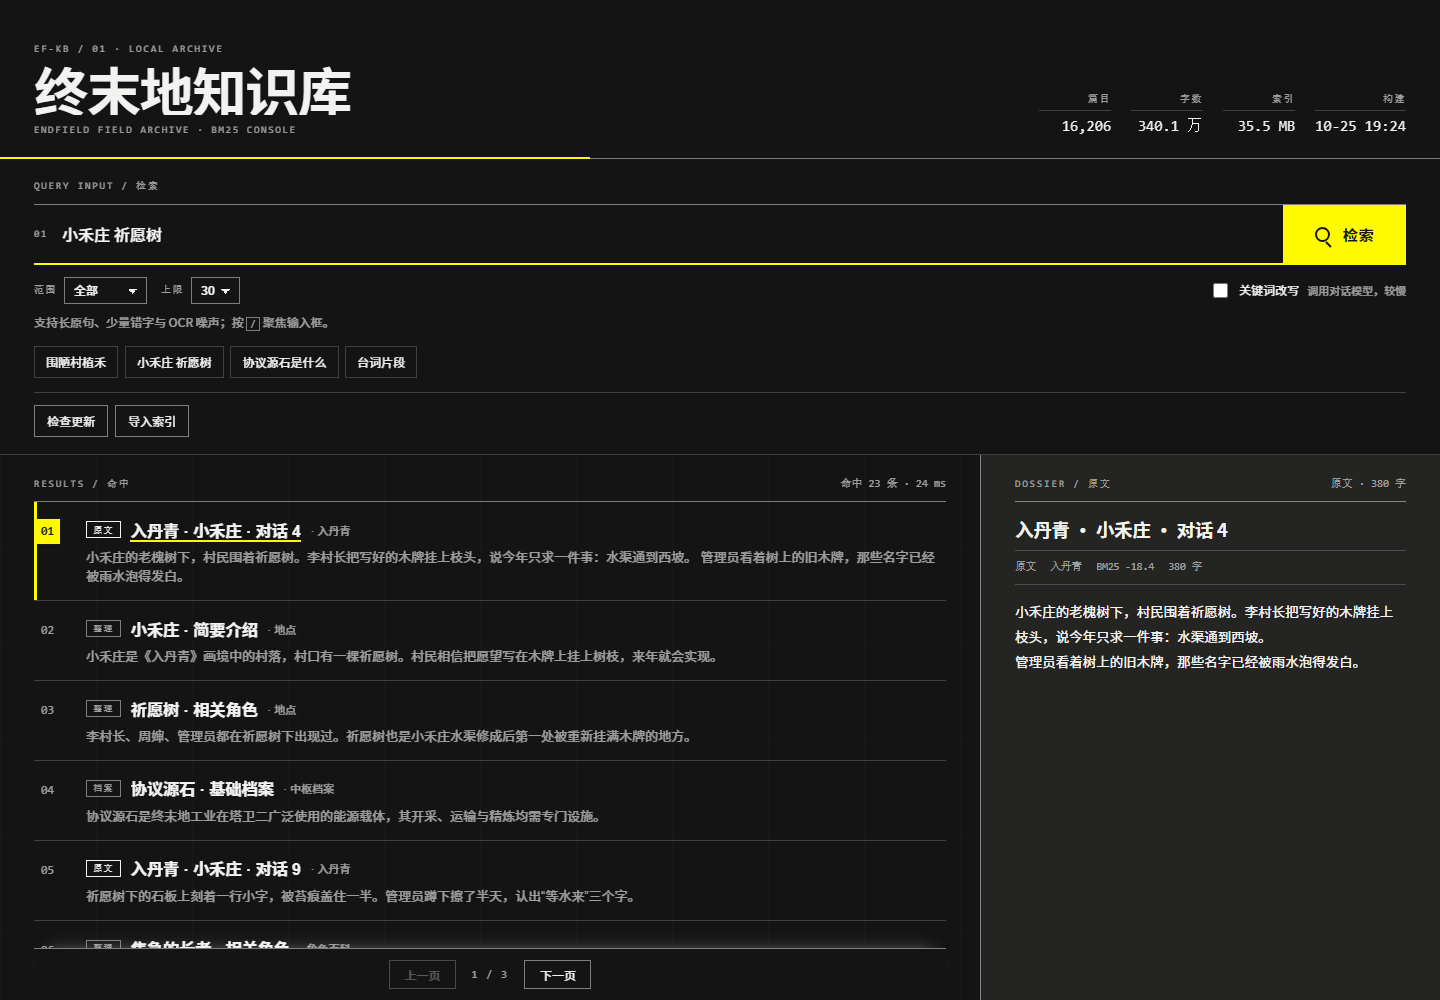
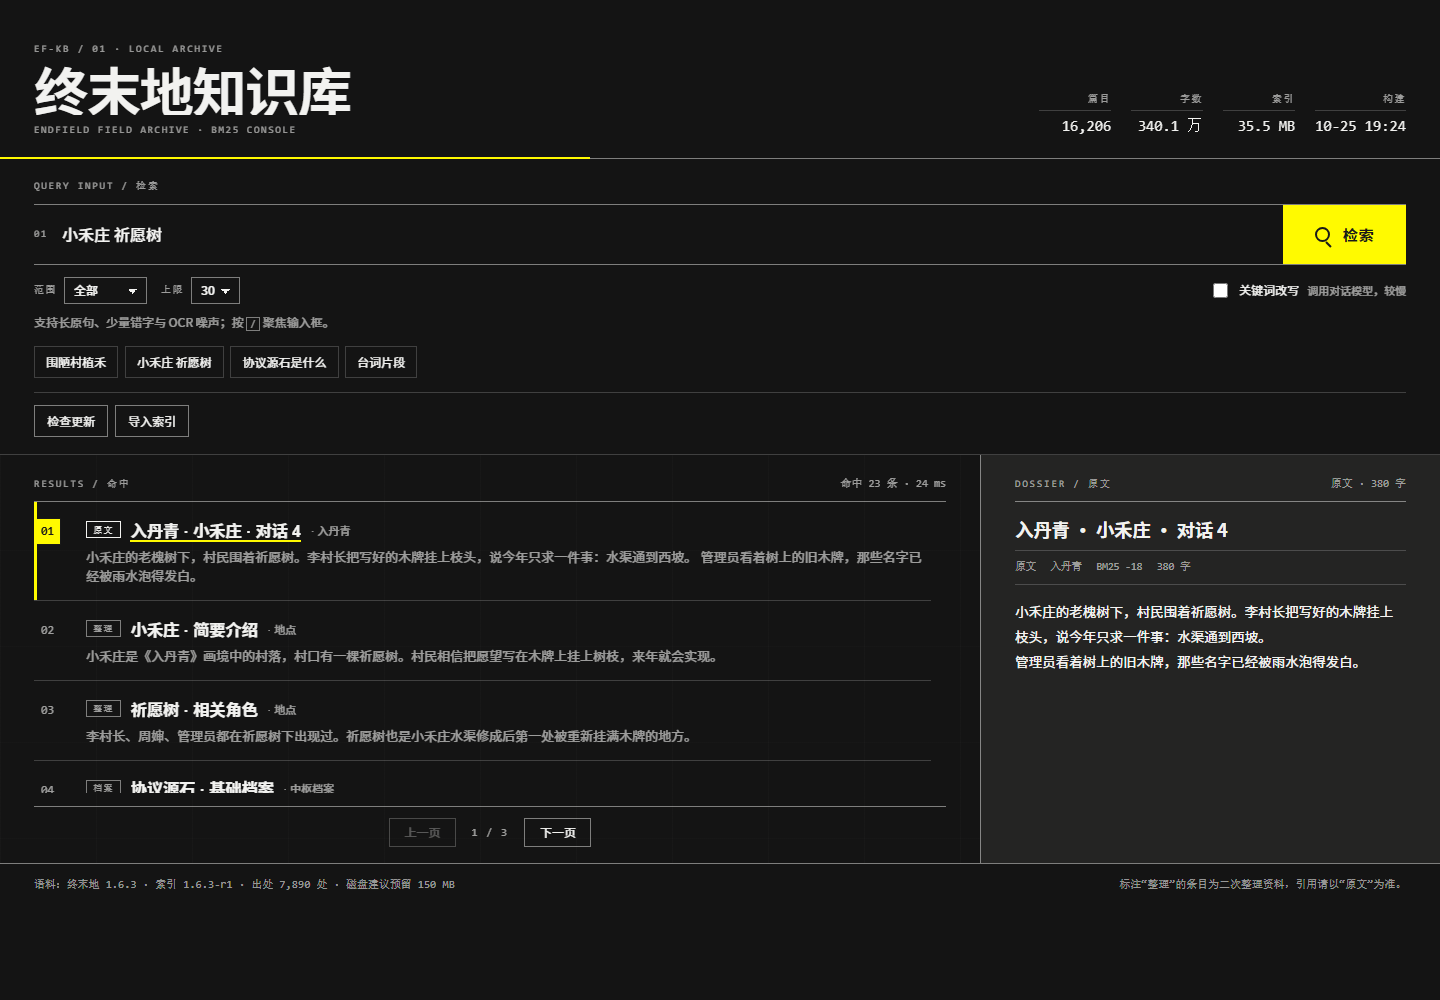
fix: pin pager to results column bottom

diff --git a/views/kb-console/style.css b/views/kb-console/style.css
@@ -56,7 +56,9 @@ body {
 }
 
 .ark-shell {
-  min-block-size: 100svh;
+  block-size: 100svh;
+  min-block-size: 0;
+  overflow: hidden;
   display: grid;
   grid-template-columns: minmax(0, 1fr) clamp(320px, 34vw, 460px);
   grid-template-rows: auto auto minmax(0, 1fr) auto;
@@ -423,8 +425,19 @@ body {
 
 .ark-results {
   min-inline-size: 0;
-  padding: 1.25rem var(--ark-gutter) 2rem;
+  min-block-size: 0;
+  display: flex;
+  flex-direction: column;
+  padding: 1.25rem var(--ark-gutter) 1rem;
   position: relative;
+}
+
+.ark-list-wrap {
+  flex: 1 1 auto;
+  min-block-size: 0;
+  overflow-y: auto;
+  overscroll-behavior: contain;
+  scrollbar-gutter: stable;
 }
 
 .ark-section-head {
@@ -452,22 +465,18 @@ body {
 }
 
 .ark-results:has(.ark-pager:not([hidden])) .ark-list {
-  padding-block-end: 3rem;
+  padding-block-end: 1.25rem;
 }
 
 .ark-pager {
-  position: sticky;
-  inset-block-end: 0;
-  z-index: 3;
+  flex: 0 0 auto;
   display: flex;
   align-items: center;
   justify-content: center;
   gap: 1rem;
-  margin-block-start: 1rem;
-  padding-block: 0.7rem;
+  margin-block-start: 0.8rem;
+  padding-block-start: 0.7rem;
   border-block-start: 1px solid var(--ark-rule-strong);
-  background: var(--ark-paper);
-  box-shadow: 0 -10px 18px -14px color-mix(in srgb, var(--ark-ink) 45%, transparent);
 }
 
 .ark-pager[hidden] {
@@ -784,7 +793,21 @@ body {
 
 @media (max-width: 860px), (orientation: portrait) {
   .ark-shell {
+    block-size: auto;
+    overflow: visible;
     grid-template-columns: minmax(0, 1fr);
+  }
+
+  .ark-list-wrap {
+    overflow: visible;
+  }
+
+  .ark-pager {
+    position: sticky;
+    inset-block-end: 0;
+    z-index: 3;
+    background: var(--ark-paper);
+    box-shadow: 0 -10px 18px -14px color-mix(in srgb, var(--ark-ink) 45%, transparent);
   }
 
   .ark-topbar {

diff --git a/views/kb-console/index.html b/views/kb-console/index.html
@@ -104,19 +104,21 @@
             <p class="ark-kicker" id="results-label">RESULTS / 命中</p>
             <p class="ark-readout" id="readout" aria-live="polite">等待检索</p>
           </div>
-          <ol class="ark-list" id="list"></ol>
+          <div class="ark-list-wrap">
+            <ol class="ark-list" id="list"></ol>
+            <div class="ark-placeholder" id="placeholder">
+              <p class="ark-placeholder-index" aria-hidden="true">02</p>
+              <p>粘贴一段记得的原文，或输入专名与关键词。</p>
+              <p class="ark-placeholder-note">
+                整篇文档就是一个场景，命中后直接给出完整原文。
+              </p>
+            </div>
+          </div>
           <nav class="ark-pager" id="pager" aria-label="结果分页" hidden>
             <button type="button" class="ark-pager-btn" id="pager-prev">上一页</button>
             <p class="ark-pager-status" id="pager-status" aria-live="polite">1 / 1</p>
             <button type="button" class="ark-pager-btn" id="pager-next">下一页</button>
           </nav>
-          <div class="ark-placeholder" id="placeholder">
-            <p class="ark-placeholder-index" aria-hidden="true">02</p>
-            <p>粘贴一段记得的原文，或输入专名与关键词。</p>
-            <p class="ark-placeholder-note">
-              整篇文档就是一个场景，命中后直接给出完整原文。
-            </p>
-          </div>
         </section>
 
         <aside class="ark-detail" id="detail" aria-labelledby="detail-label">
